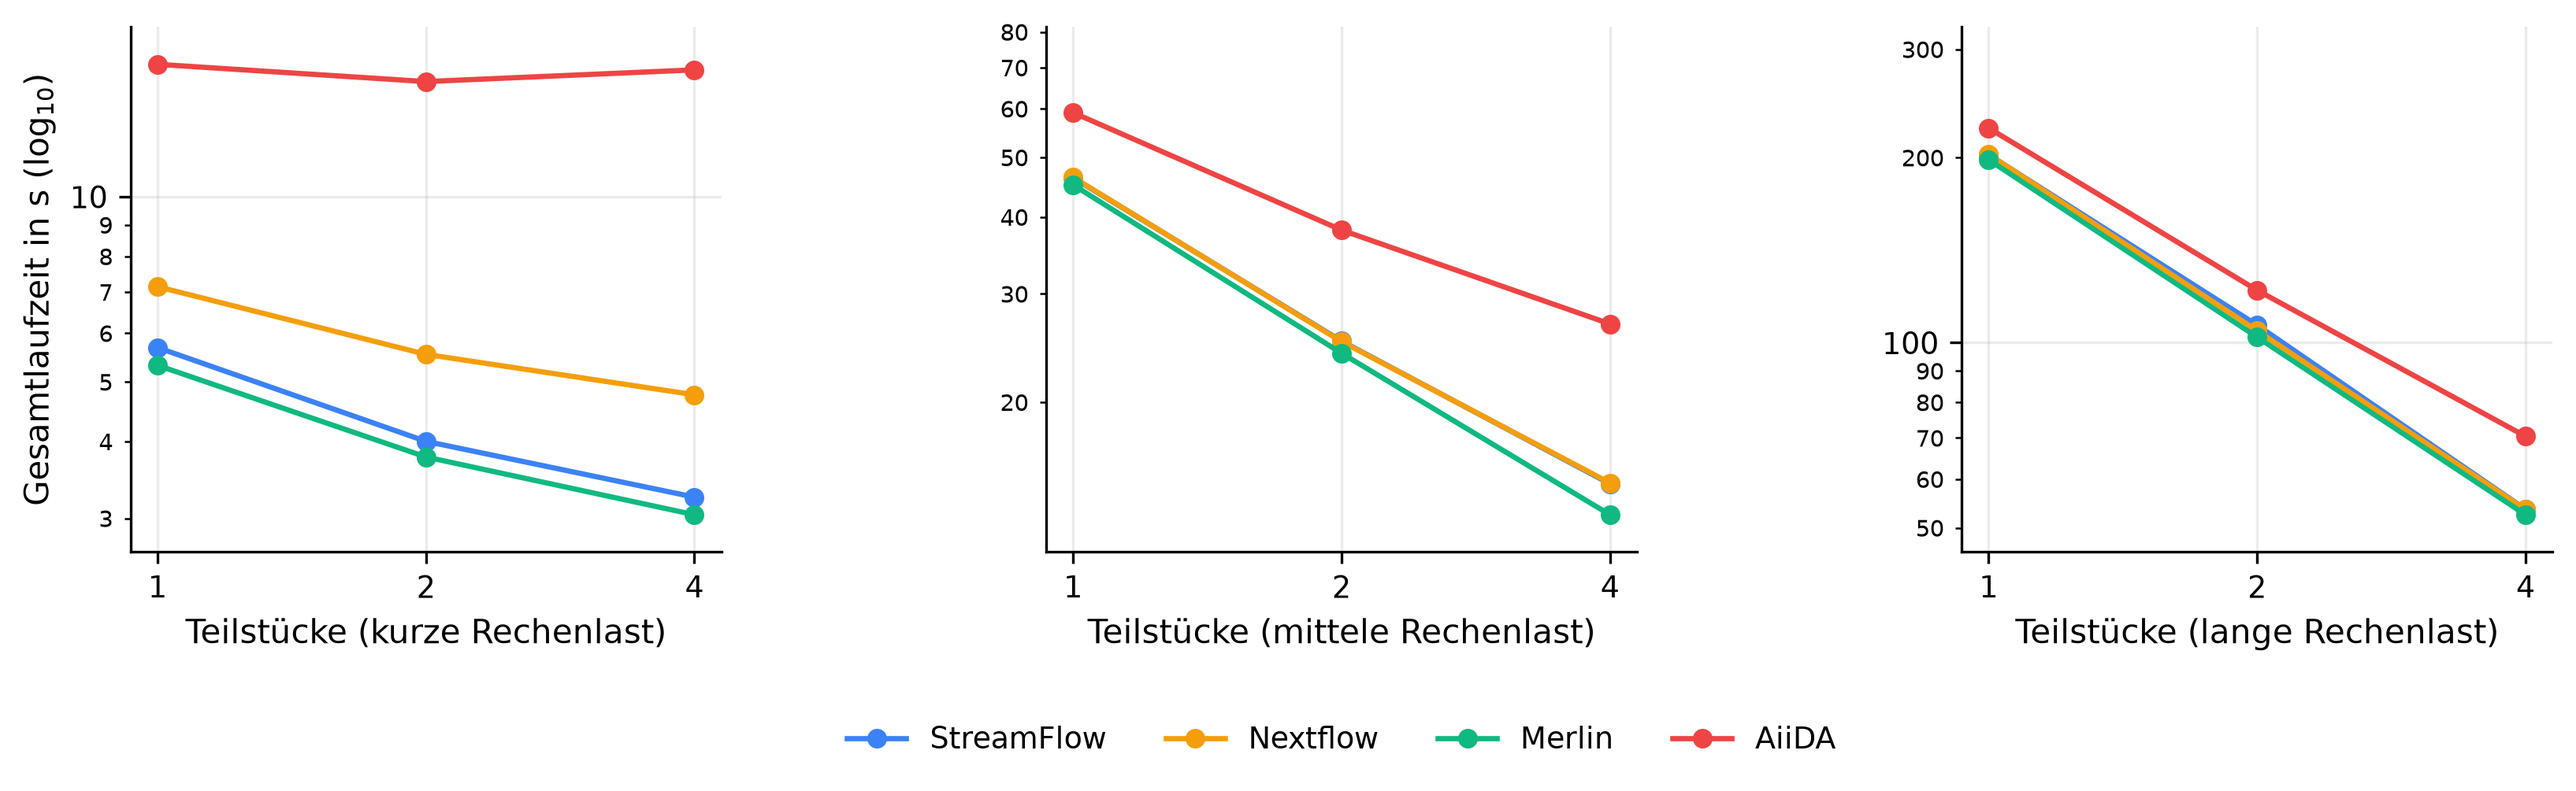
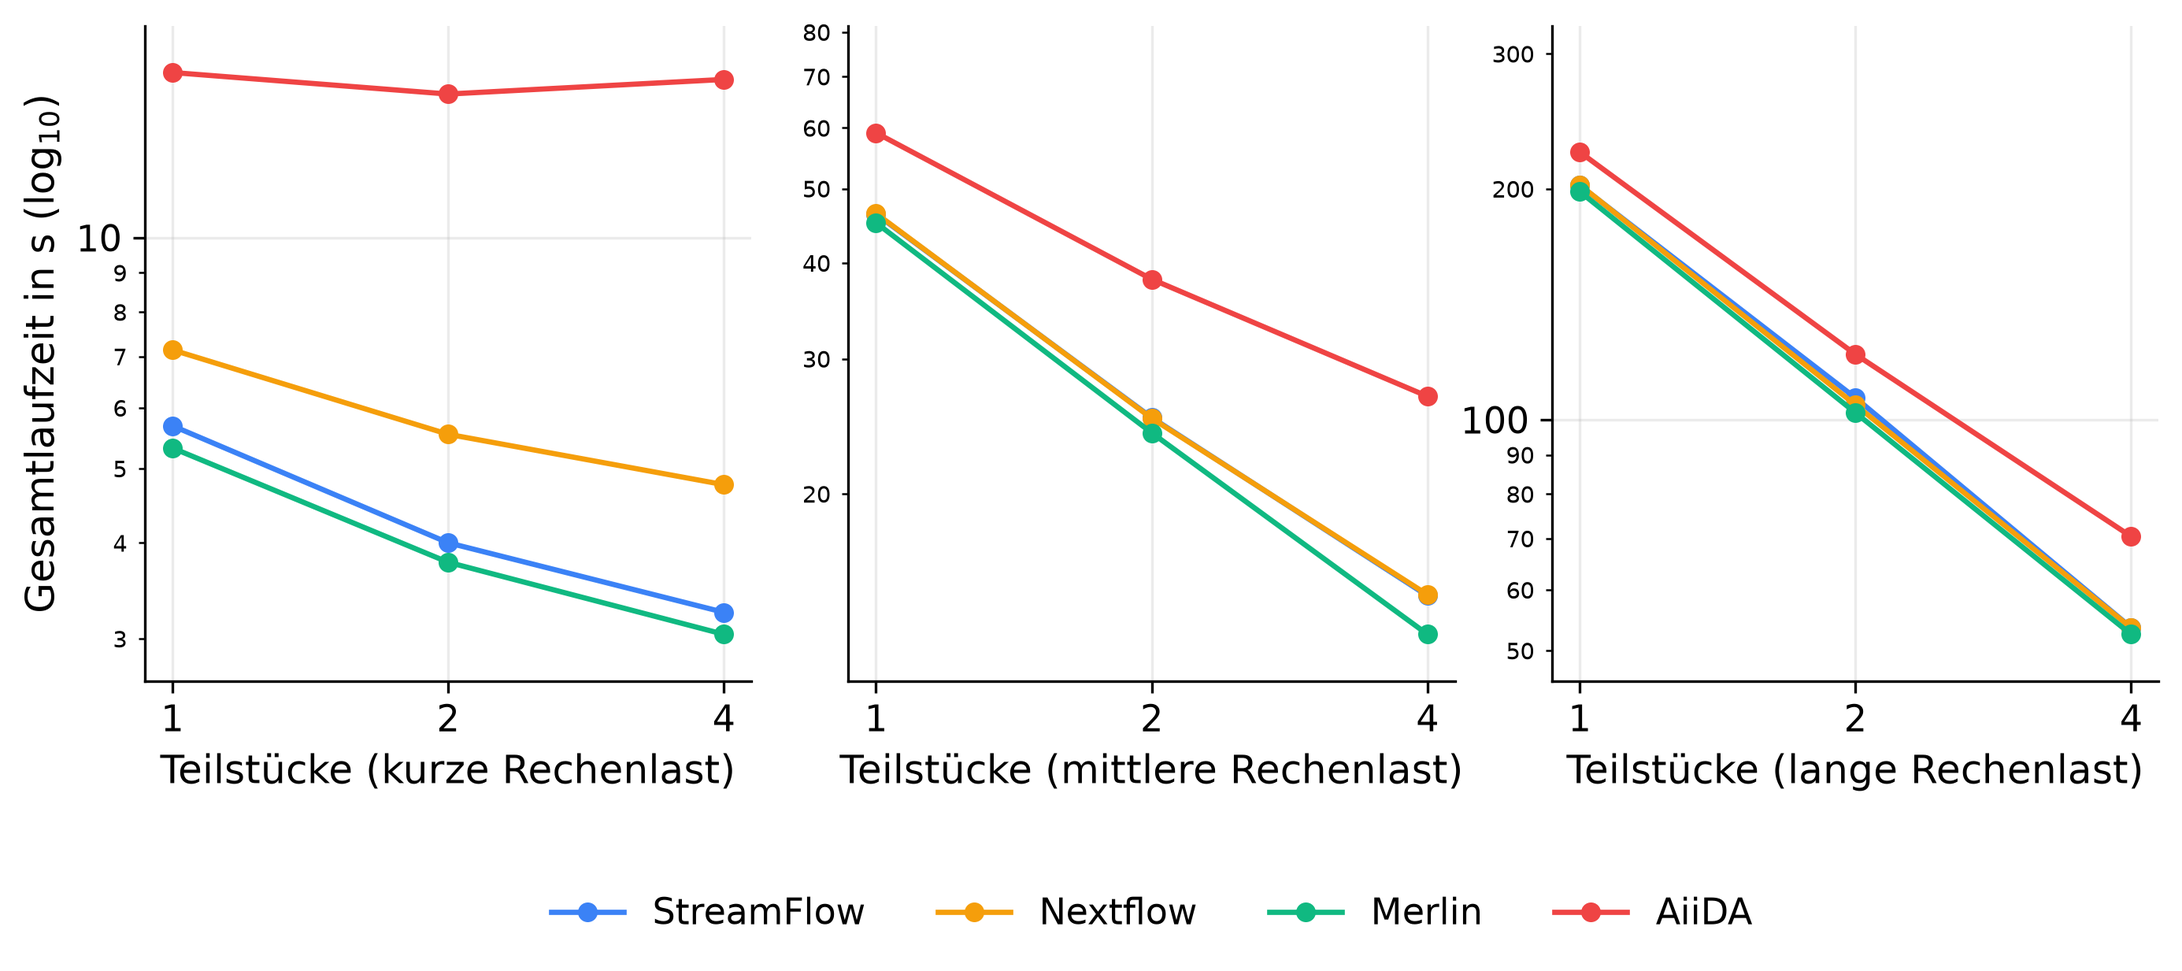
neue plots

diff --git a/auswertung/plots_final/lokal/03_makespan_scatter_gather.py b/auswertung/plots_final/lokal/03_makespan_scatter_gather.py
@@ -10,16 +10,15 @@ stil()
 zentral = lade_central("lokal_mac")
 SYS = ["streamflow", "nextflow", "merlin", "aiida", "pegasus"]
 CHUNKS = [1, 2, 4]
+RECHENLAST_ADJ = {"short": "kurze", "medium": "mittlere", "long": "lange"}
 
-# Je Panel eigene Spanne: Pegasus erzwingt lokal grosse Bereiche,
-# ein gemeinsamer Faktor wuerde die uebrigen Panels leeren
 minmax = {}
 for w in WORKLOADS:
     werte = [zentral[(s, "scatter_gather", w, c)]["wms_makespan_s"]
              for s in SYS for c in CHUNKS]
     minmax[w] = (min(werte), max(werte))
 
-fig, achsen = plt.subplots(1, 3, figsize=(11.0, 3.6))
+fig, achsen = plt.subplots(1, 3, figsize=(11.0, 3.6), gridspec_kw={"wspace": 0.16})
 for ax, w in zip(achsen, WORKLOADS):
     for s in SYS:
         werte = [zentral[(s, "scatter_gather", w, c)]["wms_makespan_s"]
@@ -34,7 +33,7 @@ for ax, w in zip(achsen, WORKLOADS):
     ax.yaxis.set_major_locator(LogLocator(subs=(1.0, 2.0, 5.0)))
     ax.yaxis.set_major_formatter(FuncFormatter(komma))
     ax.yaxis.set_minor_formatter(NullFormatter())
-    ax.set_xlabel(f"Teilstücke ({WORKLOAD_NAME[w]}e Rechenlast)")
+    ax.set_xlabel(f"Teilstücke ({RECHENLAST_ADJ[w]} Rechenlast)")
     ax.spines["top"].set_visible(False)
     ax.spines["right"].set_visible(False)
 achsen[0].set_ylabel("Gesamtlaufzeit in s (log$_{10}$)")

diff --git a/auswertung/plots_final/mogon/03_makespan_scatter_gather.py b/auswertung/plots_final/mogon/03_makespan_scatter_gather.py
@@ -10,6 +10,7 @@ stil()
 zentral = lade_central("mogon_exc")
 SYS = ["streamflow", "nextflow", "merlin", "aiida"]
 CHUNKS = [1, 2, 4]
+RECHENLAST_ADJ = {"short": "kurze", "medium": "mittlere", "long": "lange"}
 
 # Gemeinsamer Faktor der y-Spannen, damit log-Steigungen vergleichbar sind
 minmax = {}
@@ -20,7 +21,7 @@ for w in WORKLOADS:
     minmax[w] = (min(werte), max(werte))
     faktor = max(faktor, (max(werte) * 1.15) / (min(werte) / 1.15))
 
-fig, achsen = plt.subplots(1, 3, figsize=(11.0, 3.6))
+fig, achsen = plt.subplots(1, 3, figsize=(11.0, 3.6), gridspec_kw={"wspace": 0.16})
 for ax, w in zip(achsen, WORKLOADS):
     for s in SYS:
         werte = [zentral[(s, "scatter_gather", w, c)]["wms_makespan_s"]
@@ -36,7 +37,7 @@ for ax, w in zip(achsen, WORKLOADS):
     ax.yaxis.set_major_formatter(FuncFormatter(komma))
     ax.yaxis.set_minor_formatter(FuncFormatter(komma))
     ax.tick_params(axis="y", which="minor", labelsize=7)
-    ax.set_xlabel(f"Teilstücke ({WORKLOAD_NAME[w]}e Rechenlast)")
+    ax.set_xlabel(f"Teilstücke ({RECHENLAST_ADJ[w]} Rechenlast)")
     ax.spines["top"].set_visible(False)
     ax.spines["right"].set_visible(False)
 achsen[0].set_ylabel("Gesamtlaufzeit in s (log$_{10}$)")

diff --git a/auswertung/plots_final/common.py b/auswertung/plots_final/common.py
@@ -44,8 +44,8 @@ UEBERGAENGE = {
 def stil():
     """Einheitliche Darstellung fuer alle Plots (keine Titel im Bild)."""
     plt.rcParams.update({
-        "font.size": 10, "axes.labelsize": 10,
-        "xtick.labelsize": 9, "ytick.labelsize": 9, "legend.fontsize": 9,
+        "font.size": 12, "axes.labelsize": 12,
+        "xtick.labelsize": 11, "ytick.labelsize": 11, "legend.fontsize": 11,
         "axes.grid": True, "grid.alpha": 0.25, "axes.axisbelow": True,
         "figure.dpi": 300, "savefig.bbox": "tight",
     })

diff --git a/auswertung/plots_final/lokal/05_uebergangslatenzen.py b/auswertung/plots_final/lokal/05_uebergangslatenzen.py
@@ -61,7 +61,7 @@ handles += [plt.Rectangle((0, 0), 1, 1, color=to_rgba("#4B5563", ALPHA[c]))
             for c in (1, 2, 4)]
 namen = [NAME[s] for s in SYS] + ["1 Teilstück", "2 Teilstücke", "4 Teilstücke"]
 fig.legend(handles, namen, ncol=8, loc="lower center",
-           bbox_to_anchor=(0.5, -0.04), frameon=True, fontsize=8.5)
+           bbox_to_anchor=(0.5, -0.04), frameon=True, fontsize=10)
 fig.subplots_adjust(bottom=0.24)
 
 speichere(fig, "lokal", "05_lokal_uebergangslatenzen.png")

diff --git a/auswertung/plots_final/mogon/06_uebergangslatenzen.py b/auswertung/plots_final/mogon/06_uebergangslatenzen.py
@@ -61,7 +61,7 @@ handles += [plt.Rectangle((0, 0), 1, 1, color=to_rgba("#4B5563", ALPHA[c]))
             for c in (1, 2, 4)]
 namen = [NAME[s] for s in SYS] + ["1 Teilstück", "2 Teilstücke", "4 Teilstücke"]
 fig.legend(handles, namen, ncol=7, loc="lower center",
-           bbox_to_anchor=(0.5, -0.04), frameon=True, fontsize=8.5)
+           bbox_to_anchor=(0.5, -0.04), frameon=True, fontsize=10)
 fig.subplots_adjust(bottom=0.24)
 
 speichere(fig, "mogon", "06_uebergangslatenzen_mogon.png")

diff --git a/auswertung/plots_final/mogon/02_makespan_pipeline.py b/auswertung/plots_final/mogon/02_makespan_pipeline.py
@@ -25,7 +25,7 @@ ax.set_xlabel("Rechenlast")
 ax.set_ylabel("Gesamtlaufzeit in s")
 ax.set_ylim(0, max(zentral[(s, "pipeline", "long", 1)]["wms_makespan_s"]
                    for s in SYS) * 1.12)
-ax.legend(ncol=len(SYS), loc="upper left", frameon=True)
+ax.legend(ncol=len(SYS), loc="upper left", frameon=True, fontsize=9)
 dezimal(ax)
 
 speichere(fig, "mogon", "02_makespan_pipeline_mogon.png")

diff --git a/auswertung/plots_final/lokal/02_makespan_pipeline.py b/auswertung/plots_final/lokal/02_makespan_pipeline.py
@@ -26,7 +26,7 @@ ax.set_xlabel("Rechenlast")
 ax.set_yscale("log")
 ax.set_ylabel("Gesamtlaufzeit in s (log$_{10}$)")
 ax.margins(y=0.18)
-ax.legend(ncol=len(SYS), loc="upper left", frameon=True)
+ax.legend(ncol=len(SYS), loc="upper left", frameon=True, fontsize=9)
 dezimal(ax)
 
 speichere(fig, "lokal", "02_makespan_pipeline.png")
